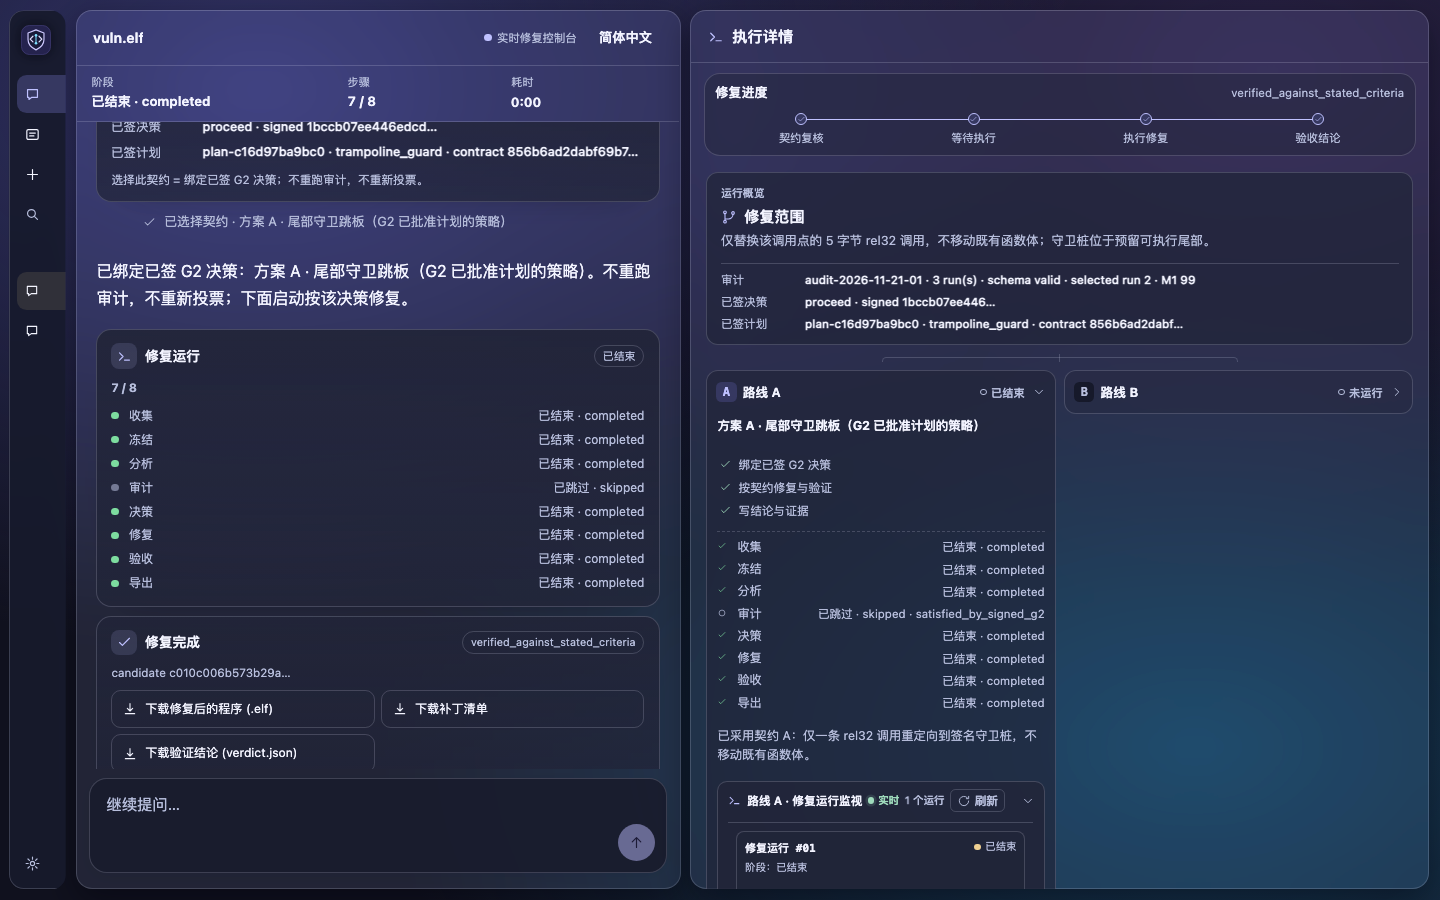
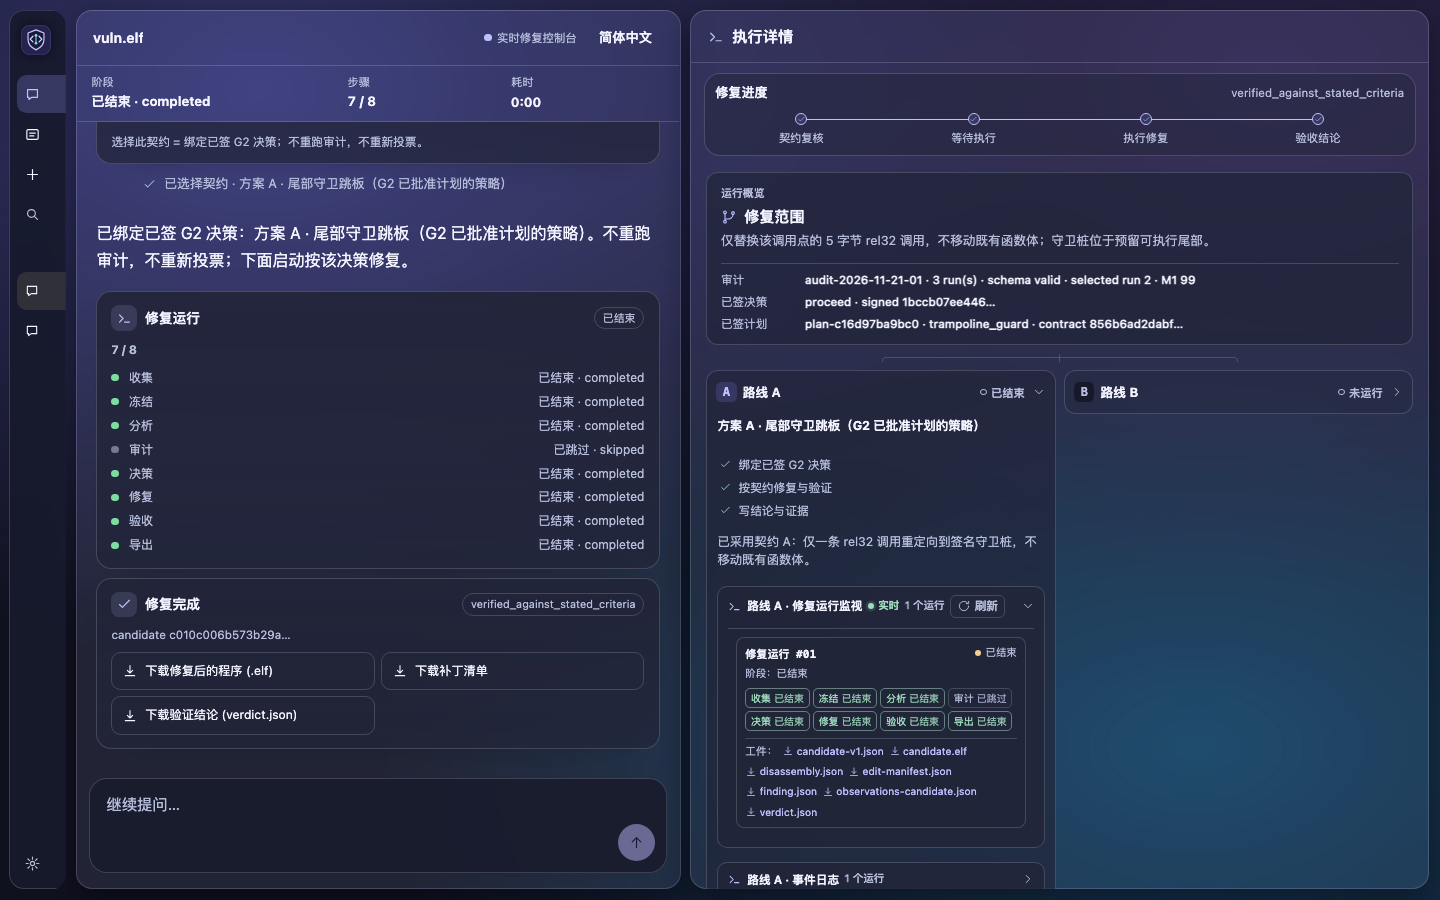
fix(gui): scope the lane monitor to the current run and simplify it

Changed region(s): [[0.0625, 0.1244, 0.4688, 0.84], [0.5, 0.5911, 0.7188, 0.9956]]

diff --git a/app/static/ui/chat/index.html b/app/static/ui/chat/index.html
@@ -7,19 +7,19 @@
   <base href="/ui/">
   <title>BinaryRepair · Conversation</title>
   <link rel="icon" type="image/svg+xml" href="assets/mark-dark.svg">
-  <link rel="stylesheet" href="chat/chat.css?v=20261124i">
+  <link rel="stylesheet" href="chat/chat.css?v=20261124k">
   <link rel="stylesheet" href="chat/glass.css?v=20261122h">
   <link rel="stylesheet" href="chat/steps.css?v=20261121i">
   <link rel="stylesheet" href="shared/settings.css?v=20261120au">
   <link rel="stylesheet" href="shared/perf.css?v=20261120au">
   <link rel="stylesheet" href="chat/guided.css?v=20261120au">
   <link rel="stylesheet" href="chat/events.css?v=20261120au">
-  <link rel="stylesheet" href="chat/route-activity.css?v=20261124i">
+  <link rel="stylesheet" href="chat/route-activity.css?v=20261124k">
   <link rel="stylesheet" href="shared/warp.css?v=20261121y">
   <script type="module" src="shared/perf.mjs?v=20261120au"></script>
   <script type="module" src="shared/warp-enter.mjs?v=20261121y"></script>
-  <script type="module" src="chat/chat-app.mjs?v=20261124i"></script>
-  <script type="module" src="chat/route-activity.mjs?v=20261124i"></script>
+  <script type="module" src="chat/chat-app.mjs?v=20261124k"></script>
+  <script type="module" src="chat/route-activity.mjs?v=20261124k"></script>
 </head>
 <body>
   <a class="skip" id="skip" href="#conversation">Skip to conversation</a>

diff --git a/docs/gui/g4-walkthrough.md b/docs/gui/g4-walkthrough.md
@@ -51,13 +51,15 @@ the runner journal, not by a client checklist:
 - overview shows the selected contract scope plus signed-G2 rows (audit,
   decision, plan/contract hashes);
 - **Route A** carries the selected G2-approved contract, its three checkpoints,
-  the runner's eight-step checklist (`skipped` + `error.code` included) and the
-  current-run monitor inside the lane;
+  the current-run monitor inside the lane (the monitor card carries the runner's
+  eight-step statuses, including `skipped` + `error.code`);
 - **Route B** keeps the alternative contracts as `not_run`, with the refusal
   reasons;
-- the lane monitor is scoped to the current task and replays the persisted journal
-  (`#seq · type · step · payload · source`).  Header count/phase come from
-  `plan_update` and `run_end` (`7 / 8`, `已结束 · completed`).
+- the lane monitor is scoped strictly to the current task: one run card, no
+  historical archive runs; the detailed event log is collapsed by default and
+  replays the persisted journal (`#seq · type · step · payload · source`).
+  Header count/phase come from `plan_update` and `run_end` (`7 / 8`,
+  `已结束 · completed`).
 
 The conversation presents the generation as cards (analysis, signed G2, live
 8-step run progress, final outcome with download tiles) with a short entrance
